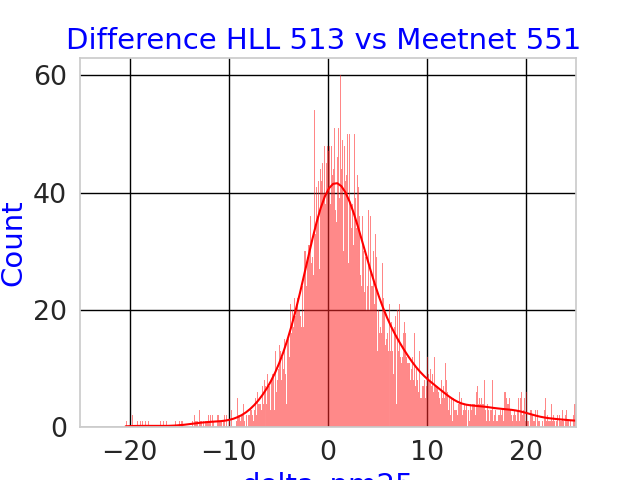
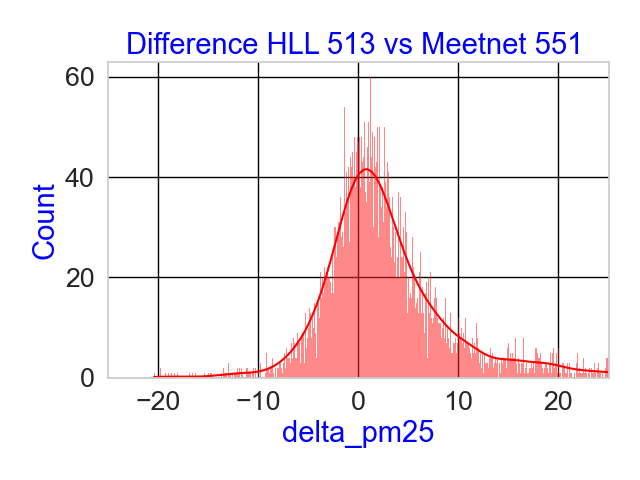
publicatie gedaan industrie

Changed region(s): [[0.0, 0.0312, 0.9688, 1.0], [0.125, 0.75, 0.1562, 0.8125], [0.4375, 0.9688, 0.4688, 1.0]]

diff --git a/python/projects/Industrie-Ijmuiden/Projectanalyzer.py b/python/projects/Industrie-Ijmuiden/Projectanalyzer.py
@@ -200,6 +200,7 @@ def augmentSuperframe():
 
     superFrame["pm25_diff_WE"] = superFrame.apply(diffWE, axis=1)
     superFrame["pm25_diff_NS"] = superFrame.apply(diffNS, axis=1)
+    superFrame["pm25_diff_NS_553"] = superFrame.apply(diffNS553, axis=1)
     superFrame["pm25_diff_coloc"] = superFrame.apply(diffcoloc, axis=1)
     superFrame["pm25_upwind"] = superFrame.apply(pm25Upwind, axis=1)
     superFrame["pm25_downwind"] = superFrame.apply(pm25Downwind, axis=1)
@@ -233,10 +234,21 @@ def runit():
     createSuperFrame(allSensors + allHLLSensors, KNMI_225)
     augmentSuperframe()
 
-    diffPlot(HLL_226, HLL_513, "pm25", xlim=(-20.0, 20.0), title="Difference HLL 226 vs HLL 513 ",
-             filename=projectdir + "/diffplot_HLL_226_HLL_513")
+    windplot(superFrameAugmented, "pm25_diff_NS", polar=False,
+             useMedian=True, title="PM25 difference N-S", smooth=3,
+             method="medianvalues", filename=projectdir+"/windplotNS")
+    return
+
+
+    printSeries(HLL_433, "HLL_433 pm25", projectdir + "/timeseries-" + "HLL_433-pm25",
+                ylim=(-20, 150))
+    printSeries(HLL_513, "HLL_513 pm25", projectdir + "/timeseries-" + "HLL_433-pm25",
+                ylim=(-20, 150))
+    return
     diffPlot(HLL_226, NL49557, "pm25", xlim=(-25.0, 25.0), title="Difference HLL 226 vs Meetnet 557 ",
              filename = projectdir + "/diffplot_HLL_226_Meetnet_557")
+    diffPlot(HLL_226, HLL_513, "pm25", xlim=(-20.0, 20.0), title="Difference HLL 226 vs HLL 513 ",
+             filename=projectdir + "/diffplot_HLL_226_HLL_513")
     diffPlot(HLL_513, NL49551, "pm25", xlim=(-25.0, 25.0), title="Difference HLL 513 vs Meetnet 551 ",
              filename = projectdir + "/diffplot_HLL_513_Meetnet_551")
     diffPlot(NL49557, NL49551, "pm25", xlim=(-25.0, 25.0), title="Difference Meetnet 557 vs Meetnet 551 ",
@@ -245,10 +257,6 @@ def runit():
              filename = projectdir + "/diffplot_Meetnet_553_Meetnet_551")
     diffPlot(NL49553, NL49557, "pm25", xlim=(-25.0, 25.0), title="Difference Meetnet 553 vs Meetnet 557 ",
              filename = projectdir + "/diffplot_Meetnet_553_Meetnet_557")
-
-
-    return
-
 
     windplot(superFrameAugmented, "pm25_diff_N557_SHLL513", polar=False,
              useMedian=True, title="PM25 difference N (meetnet) - S (HLL)", smooth=3,
@@ -271,43 +279,43 @@ def runit():
          method="medianvalues", filename=projectdir + "/windplotWE_WHLL433_E572")
 
     windplot(superFrameAugmented, "pm25_diff_NS_553", polar=False,
-             useMedian=True, title="PM25 difference N-S 553", smooth=2,
+             useMedian=True, title="PM25 difference N-S 553", smooth=3,
              method="medianvalues", filename=projectdir+"/windplotNS_553")
     windplot(superFrameAugmented, "pm25_diff_NS", polar=False,
              useMedian=True, title="PM25 difference N-S", smooth=2,
              method="medianvalues", filename=projectdir+"/windplotNS")
-    windplot(superFrameAugmented, "pm25_diff_WE_NL_HLL", polar=False,
-             useMedian=True, title="PM25 difference W (NL) - E (HLL)", smooth=2,
-             method="medianvalues", filename=projectdir+"/windplotWE_NL_HLL")
-    windplot(superFrameAugmented, "pm25_diff_WE_HLL_NL", polar=False,
-             useMedian=True, title="PM25 difference W (HLL) - E (NL) ", smooth=2,
-             method="medianvalues", filename=projectdir+"/windplotWE_HLL_NL")
 
-    return
     windplot(superFrameAugmented, "pm25_diff_WE", polar=False,
-             useMedian=True, title="PM25 difference W-E", smooth=2,
+             useMedian=True, title="PM25 difference W-E", smooth=3,
              method="medianvalues", filename=projectdir+"/windplotWE")
-    windplot(superFrameAugmented, "pm25_diff_NS", polar=False,
-             useMedian=True, title="PM25 difference N-S", smooth=2,
-             method="medianvalues", filename=projectdir+"/windplotNS")
     windplot(superFrameAugmented, "pm25_diff_coloc", polar=True,
-             useMedian=True, title="PM25 difference colocation", smooth=2,
+             useMedian=True, title="PM25 difference colocation", smooth=3,
              method="medianvalues", filename=projectdir+"/windplotcoloc")
     windplot(superFrameAugmented, "pm25_upwind", polar=True,
-             useMedian=True, title="PM25 upwind concentration", smooth=2,
+             useMedian=True, title="PM25 upwind concentration", smooth=3,
              method="medianvalues", filename=projectdir+"/windplotUpwind")
     windplot(superFrameAugmented, "pm25_downwind", polar=True,
-             useMedian=True, title="PM25 downwind concentration", smooth=2,
+             useMedian=True, title="PM25 downwind concentration", smooth=3,
              method="medianvalues", filename=projectdir+"/windplotDownwind")
     windplot(superFrameAugmented, "pm25_diff_winddirection", polar=False,
-             useMedian=True, title="PM25 difference downwind - upwind", smooth=2,
+             useMedian=True, title="PM25 difference downwind - upwind", smooth=3,
              method="medianvalues", filename=projectdir+"/windplotDownMinusUp")
     windplot(superFrameAugmented, "pm25", polar=True,
-             useMedian=True, title="PM25 median all 6 luchtmeetnet stations", smooth=2,
+             useMedian=True, title="PM25 median all 6 luchtmeetnet stations", smooth=3,
              method="medianvalues", filename=projectdir+"/windplotAll")
     windplot(superFrameAugmented, "pm25", polar=True,
-             useMedian=False, title="PM25 mean all 6 luchtmeetnet stations", smooth=2,
+             useMedian=False, title="PM25 mean all 6 luchtmeetnet stations", smooth=3,
              method="meanvalues", filename=projectdir + "/windplotAllMean")
+    windplot(superFrameAugmented, "pm25_NL49557", polar=True,
+             useMedian=True, title="PM25 median Meetnet 49557 (North)", smooth=3,
+             method="medianvalues", filename=projectdir + "/windplot557Median")
+    windplot(superFrameAugmented, "pm25_NL49553", polar=True,
+             useMedian=True, title="PM25 median Meetnet 49553 (North)", smooth=3,
+             method="medianvalues", filename=projectdir + "/windplot553Median")
+    windplot(superFrameAugmented, "pm25_NL49551", polar=True,
+             useMedian=True, title="PM25 median Meetnet 49551 (South)", smooth=3,
+             method="medianvalues", filename=projectdir + "/windplot551Median")
+
     return
 
 # run stand alone entry point

diff --git a/python/plotter.py b/python/plotter.py
@@ -19,8 +19,11 @@ sns.set_style("whitegrid", {'grid.color': 'black',
 
 myPalette = ["#FF0000", "#00FF00", "#0000FF"]
 sns.set_palette(myPalette)
-my_dpi = 300
-plt.figure(figsize=(2000 / my_dpi, 1600 / my_dpi), dpi=my_dpi)
+
+#@todo: wtf with figure sizes
+#my_dpi = 300
+#plt.figure(figsize=(1000 / my_dpi, 800 / my_dpi), dpi=my_dpi)
+
 
 def printSeries(aSensor, title="PM Series", filename=False, ylim=None):
     lplot = sns.lineplot(aSensor, x="datetime", y="pm25")
@@ -48,6 +51,7 @@ def diffPlot(leftframe, rightframe, attr, xlim=(-40.0, 40.0), title="Difference"
     lplot = sns.histplot(data=deltas, x="delta_"+attr, binwidth=0.10, kde=True)
     lplot.set(xlim=xlim)
     lplot.set(title=title)
+    plt.tight_layout()
     plt.show()
     if filename:
         lplot.get_figure().savefig(filename)
@@ -73,6 +77,7 @@ def diffWindPlot(leftframe, rightframe, xlim=(-170.0, 170.0), title="Winddiffere
     lplot = sns.histplot(data=deltas, x="delta_winddirection", binwidth=10, kde=False)
     lplot.set(title=title)
     lplot.set(xlim=xlim)
+    plt.tight_layout()
     plt.show()
     if filename:
         lplot.get_figure().savefig(filename)
@@ -117,12 +122,14 @@ def windplot(frame, values, polar=True, useMedian=True, title="Windplot", smooth
         conc["winddirection"][0] = 0
 
         g = sns.FacetGrid(conc, subplot_kws=dict(projection='polar', theta_offset=math.pi/2,
-                          theta_direction=-1), height=10, sharex=False, sharey=False,
+                          theta_direction=-1), height=6.4, sharex=False, sharey=False,
                           despine=False)
-        g.fig.suptitle(title)
+        g.fig.suptitle(title, fontsize=17)
         g.map_dataframe(sns.lineplot, x="winddirection", y=values, linewidth=4.0)
         g.set(xlabel=None)
         g.set(ylabel=None)
+
+        plt.tight_layout()
 
         if filename:
             g.savefig(filename)
@@ -131,14 +138,15 @@ def windplot(frame, values, polar=True, useMedian=True, title="Windplot", smooth
         lplot = (sns.lineplot(data=conc, x="winddirection", y=values, linewidth=2.5))
         lplot.set(xlim=(-5.0, 355.0))
         lplot.set(title=title)
-        lplot.set_ylabel(values.replace("_", " "), fontsize=15)
-        lplot.set_xlabel("winddirection", fontsize=15)
-        lplot.axes.set_title(title, fontsize=18)
+        lplot.set_ylabel(values.replace("_", " "), fontsize=14)
+        lplot.set_xlabel("winddirection", fontsize=14)
+        lplot.axes.set_title(title, fontsize=17)
+
+        plt.tight_layout()
 
         if filename:
             lplot.get_figure().savefig(filename)
 
-    plt.tight_layout()
     plt.show()
 
 # show number of count of every winddirection in frame
